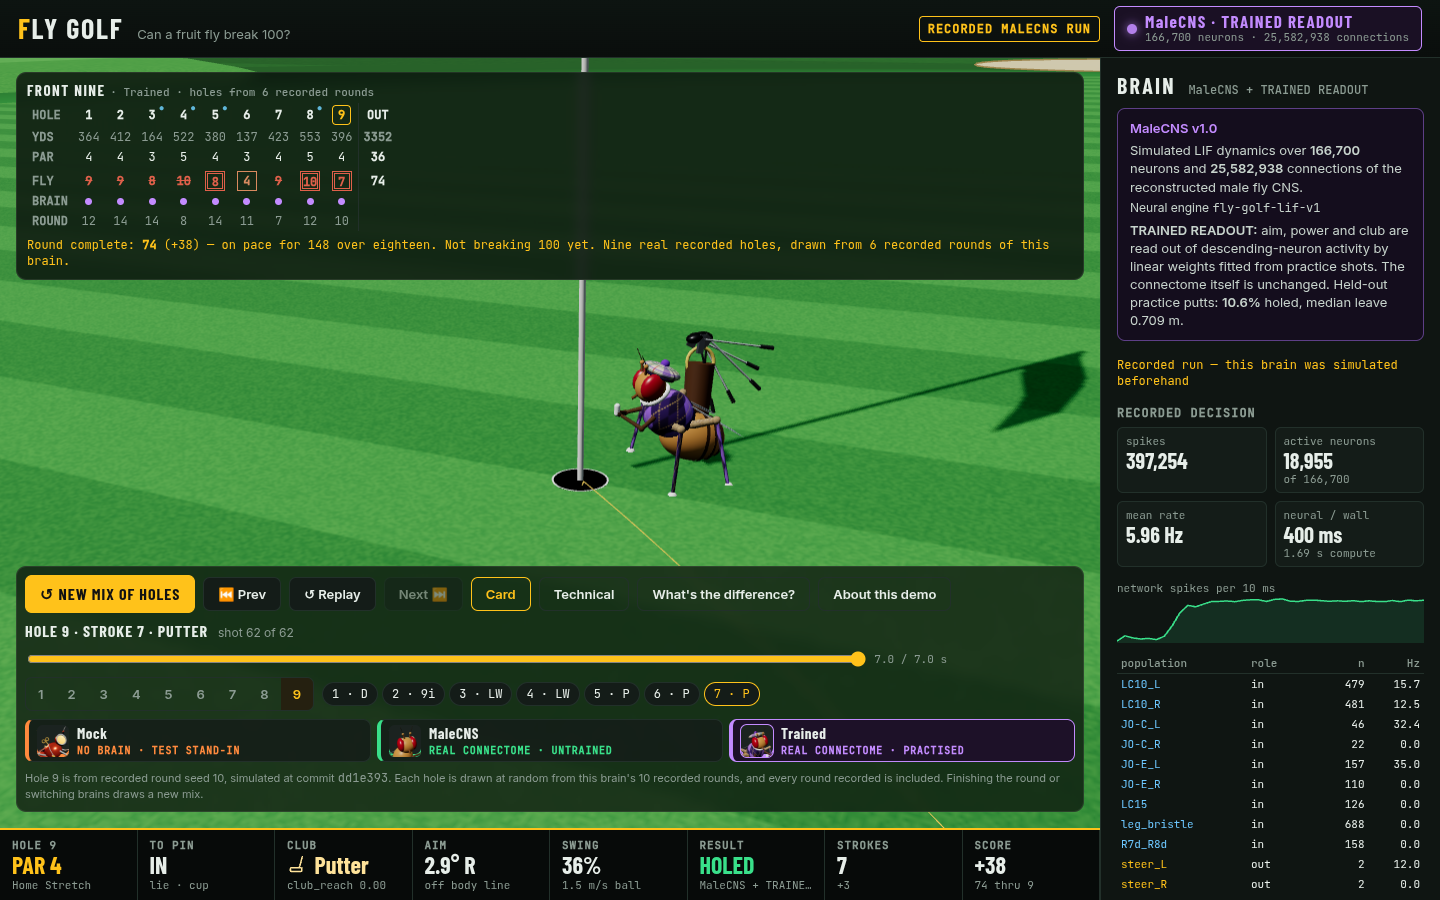
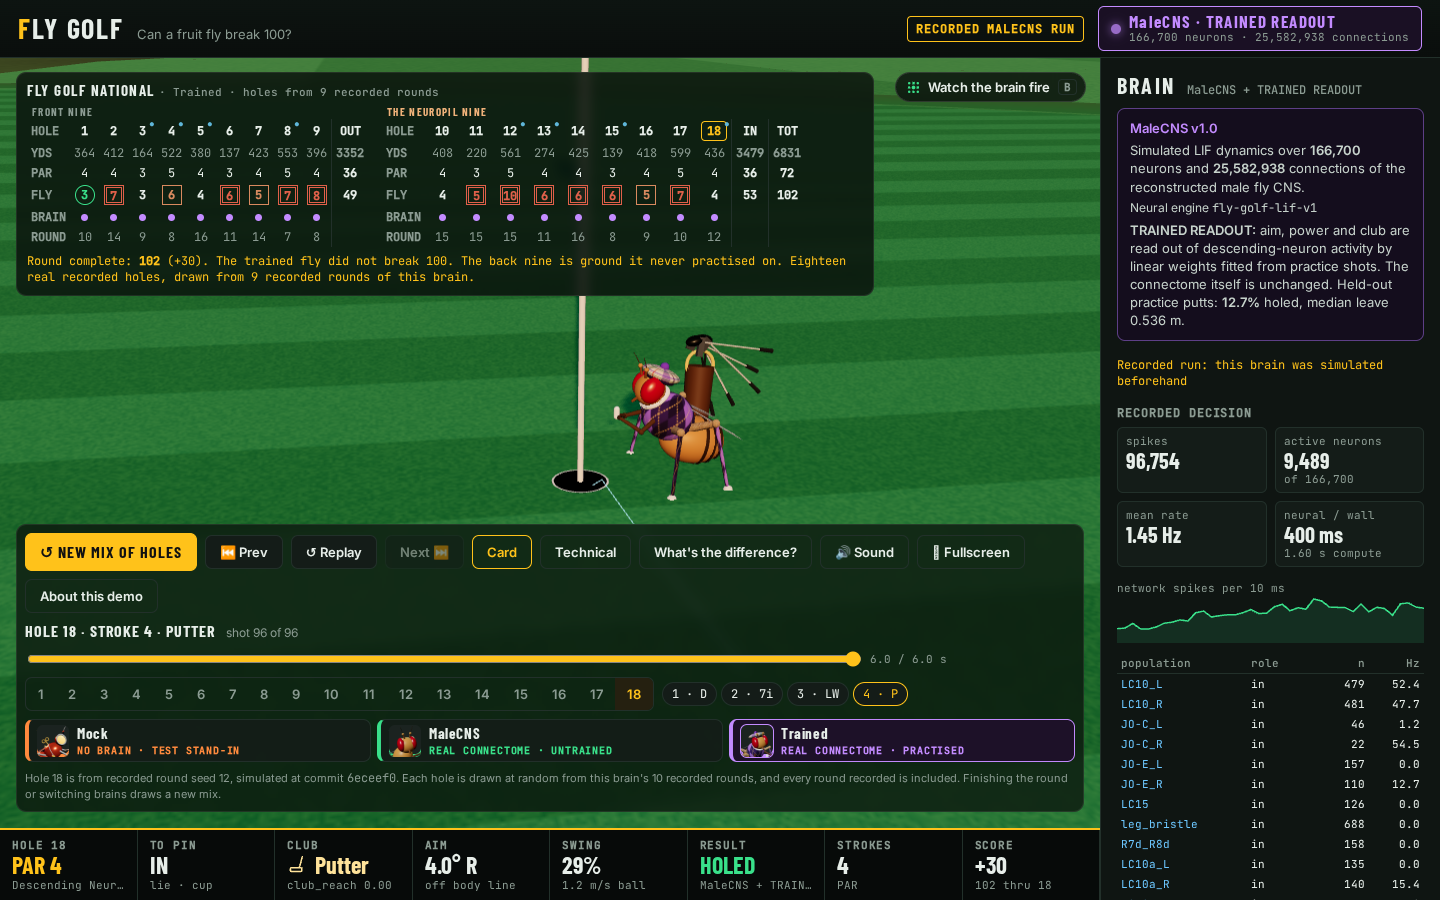
README: real 18-hole results, a new round-complete shot, trained stills
The headline answers the tagline honestly: on 18 real holes the trained
fly broke 100 in 13 of 46 rounds; the ten demo rounds average 99.6 (5
of 10 under 100) and 36 bench rounds average 102.6 (8 of 36). The old
98.6 was a front nine doubled. The back nine, never practised on, costs
about one to two strokes; that is transfer, not evidence the wiring
helps, and neither control has been run on the back nine.

The results table is 18-hole (out, in, total, holes of 180, rounds
under 100). The round-complete screenshot is re-shot from the committed
showcase: one random trained mix of 102 with the 18-hole card and the
new verdict. The back-nine stills now come from the recorded round
trained-eighteen-s07 (15 tee shot, 18 approach) instead of a mock
round. Deep links move to trained-eighteen-s07 with the same shot
numbers, and the README's remaining em dashes are gone.

diff --git a/README.md b/README.md
@@ -10,6 +10,13 @@ own club from a full bag, sets up every shot, records its neural telemetry, and 
 readout of descending-neuron activity to make its golf decisions. It practised only on the front
 nine; the back nine is held out, so every shot it plays there is on holes it has never seen.
 
+**So, can it break 100? Sometimes.** Over 18 real holes the trained fly broke 100 in 13 of its 46
+real rounds: the ten rounds in the web demo average 99.6 (5 of 10 under 100), and 36 benchmark
+rounds on fresh seeds average 102.6 (8 of 36 under 100). The back nine, which it never practised
+on, costs it about one to two strokes more than the front. None of this shows that the real wiring
+helps: on the front nine a randomly rewired connectome and a readout of the raw senses both play
+better, and neither control has been run on the back nine yet ([details](#the-web-demo)).
+
 **[▶ Watch the Web Demo](https://jameskbb.github.io/fly-golf/)** ·
 [▶ Watch the 25-second short](https://jameskbb.github.io/fly-golf/watch.html) ·
 [How It Works](#how-it-works) · [Run It Locally](#run-it-locally) ·
@@ -18,10 +25,10 @@ nine; the back nine is held out, so every shot it plays there is on holes it has
 [![Animated gameplay from Pond Hop: the trained fly addresses the ball, its readout picks the 7-iron, and the shot carries the pond and rolls up 4.7 feet from the flag, filmed with every panel hidden so the course fills the frame](docs/media/trained-pond-hop-gameplay.gif)](docs/media/trained-pond-hop-gameplay.mp4)
 
 *One real shot on Pond Hop, the 164-yard third: the tee shot of the web demo's featured round
-(seed 7), played by the current trained readout (`20260917T165536Z`). 400 ms of MaleCNS activity
-become a 7-iron that carries the pond and stops 4.7 ft (1.4 m) from the flag. It is the recorded
+(`trained-eighteen-s07`, seed 7), played by the current trained readout (`20260917T165536Z`).
+400 ms of MaleCNS activity become a 7-iron that carries the pond and stops 4.7 ft (1.4 m) from the flag. It is the recorded
 shot replayed by the web demo in cinema mode (press F there), so no panel covers the course;
-[watch it there](https://jameskbb.github.io/fly-golf/?run=trained-front-nine-s07&shot=14) or
+[watch it there](https://jameskbb.github.io/fly-golf/?run=trained-eighteen-s07&shot=14) or
 [open the 1280×720 MP4](docs/media/trained-pond-hop-gameplay.mp4).*
 
 > **What is real, and what is not**
@@ -46,12 +53,12 @@ shot replayed by the web demo in cinema mode (press F there), so no panel covers
   <img src="apps/web/public/media/fly-golf-short-02-poster.jpg" alt="The fly at address with its 7-iron, captioned 7-IRON" width="240" align="left" hspace="18" vspace="4">
 </a>
 
-**[▶ Watch it here](https://jameskbb.github.io/fly-golf/watch.html)** (25 s, sound on) — one hole,
+**[▶ Watch it here](https://jameskbb.github.io/fly-golf/watch.html)** (25 s, sound on): one hole,
 cut for a phone: the fly's readout picks a 7-iron, carries the pond to 4.7 feet, and then takes
 three putts, including a lip-out from 14 inches.
 
 Every frame is the web demo replaying the same recorded hole you can
-[open yourself](https://jameskbb.github.io/fly-golf/?run=trained-front-nine-s07&shot=14); the
+[open yourself](https://jameskbb.github.io/fly-golf/?run=trained-eighteen-s07&shot=14); the
 video adds captions, synthesized sound and speed changes, and nothing else. How it was cut, shot
 by shot, is in [social/short-02](social/short-02/README.md), together with the capture and render
 tools that rebuild it from the recorded run.
@@ -63,7 +70,7 @@ tools that rebuild it from the recorded run.
 [**jameskbb.github.io/fly-golf**](https://jameskbb.github.io/fly-golf/) is the same 3D app
 replaying **recorded MaleCNS rounds**. The neural simulation was computed beforehand; the replay
 runs entirely in your browser. There is no backend, and nothing is simulated or invented on the
-page. Pick a brain and watch nine holes one shot at a time: each hole is drawn at random from
+page. Pick a brain and watch 18 holes one shot at a time: each hole is drawn at random from
 that brain's recorded rounds, so every visit shows different play, and the scorecard says which
 round each hole came from. Pause, scrub through a swing, jump to any hole or stroke, orbit the
 camera, and read each shot's recorded spikes, active neurons, population rates, motor channels
@@ -78,27 +85,50 @@ neurons fired is not recorded, so none is shown firing alone, and Mock shots, wh
 brain, show nothing. To watch the brain play new shots as they are computed,
 [run it locally](#run-it-locally): the connectome download needs more than 1 GB of disk.
 
-Each brain recorded ten complete rounds, seeds 7–16, fixed before any round was played. Every
-one of them is in the demo; none was picked from several attempts:
+Each brain recorded ten complete 18-hole rounds, seeds 7–16 (the same seeds as the earlier
+front-nine demo), fixed before any round was played. Every one of them is in the demo; none was
+picked from several attempts:
 
-| Brain | Ten rounds (seeds 7–16) | Holes holed out | What happens |
-| --- | --- | --- | --- |
-| **Trained MaleCNS** (featured) | **49.3** strokes per nine on average (42–54) | 89 of 90 | Drivers off the tee and wedges around the greens, read out of descending-neuron activity by a readout fitted from practice |
-| **Untrained MaleCNS** | **81** in every round | 0 of 90 | The fixed readout rules hit a mid iron from everywhere and pick up every hole |
-| **Mock** | **36.5** (35–39) | 90 of 90 | The no-neuron reference. It reads the distance and lie directly, so it plays well |
+| Brain | Out (front nine) | In (back nine, never practised) | Total, ten rounds | Holes holed out | Rounds under 100 |
+| --- | --- | --- | --- | --- | --- |
+| **Trained MaleCNS** (featured) | 49.3 | 50.3 | **99.6** (93–115) | 176 of 180 | 5 of 10 |
+| **Untrained MaleCNS** | 81.0 | 81.0 | **162** in every round | 0 of 180 | 0 of 10 |
+| **Mock** (no neurons) | 36.5 | 37.1 | **73.6** (68–75) | 180 of 180 | 10 of 10 |
 
-[![The web demo at the end of a mixed trained round: the scorecard reads Round complete: 74 (+38), on pace for 148 over eighteen, not breaking 100 yet, with a ROUND row giving the recorded round each hole was drawn from (six of the trained brain's ten rounds), and the recorded neural telemetry in the brain panel](docs/screenshots/web-demo-round-complete.png)](https://jameskbb.github.io/fly-golf/)
+The trained fly takes drivers off the tee and wedges around the greens, read out of
+descending-neuron activity by a readout fitted from practice. The untrained fly's fixed rules hit
+a mid iron from everywhere and pick up every hole. The mock is not a fly and has no neurons: it
+reads the distance and lie directly, so it plays well, and it is the reference.
 
-*One random mix, captured as it came: every visit draws a new one. This shot of the demo was
-taken with the previous readout, so its scorecard reads 74; the rounds in the demo today are the
-ones in the table above.*
+[![The web demo at the end of a mixed trained round: the 18-hole scorecard shows the Front Nine out in 49 and The Neuropil Nine in 53, a total of 102, with a ROUND row naming the recorded round each hole was drawn from, and the verdict Round complete: 102 (+30). The trained fly did not break 100. The back nine is ground it never practised on. The brain panel shows the recorded neural telemetry of the last putt](docs/screenshots/web-demo-round-complete.png)](https://jameskbb.github.io/fly-golf/)
 
-On an 18-hole pace the trained fly averages 98.6 and the untrained fly 162. **The fly breaks
-100** — just, and only since the sensory injection was rebuilt so that it can actually perceive
-which way its target lies (see [SENSORY_MAPPING.md](docs/SENSORY_MAPPING.md#v03-one-quantity-per-population-malecns-sensory-v03));
-its best nine of the ten, 42, is an 84 pace. All thirty rounds were recorded from a clean tree whose
-contents are those of commit `04a148d` (the runs record its pre-publication sha `43f6d6b`; see
-[BUILD_LOG.md](docs/BUILD_LOG.md)), and every round re-simulates bit for bit (`fly-golf replay`).
+*One random mix of the trained fly's recorded holes, captured as it came (every visit draws a new
+one): its 18 holes come from 9 of the ten recorded rounds, as the ROUND row shows. This mix
+totals 102, out in 49 and home in 53, so the verdict under the card says it did not break 100.
+Other mixes can land on either side of 100.*
+
+**Does the fly break 100?** Sometimes, and on average not quite. The ten demo rounds average
+99.6: 5 of them are under 100 (93, 94, 94, 97, 98), one is exactly 100, which does not break 100,
+and the worst is 115. On 36 more rounds from fresh seeds (`fly-golf bench`, seeds 100–111,
+200–211 and 300–311) the trained fly averages 102.6 and breaks 100 in 8; its best is 88 and its
+worst 119. Together: 13 rounds under 100 out of 46. The "98.6" this README used to quote was a
+front-nine round doubled, not an 18-hole round. The fly only got this close after the sensory
+injection was rebuilt so that it can actually perceive which way its target lies (see
+[SENSORY_MAPPING.md](docs/SENSORY_MAPPING.md#v03-one-quantity-per-population-malecns-sensory-v03)).
+
+**The back nine, which it never practised on,** costs it about one to two strokes: in the demo
+rounds it goes out in 49.3 and comes home in 50.3, and in the three bench blocks the back nine
+averages 51.8, 50.6 and 53.8 against 50.3, 51.4 and 49.8 on the front. So what the readout learnt
+on the front nine transfers to unseen holes almost fully. That is a statement about the sensory
+injection plus the readout, **not evidence that the real MaleCNS wiring helps**: on the front nine
+a degree-preserving shuffled connectome trains a better readout than the real one, and a readout
+of the raw senses with no brain at all beats both. Neither control has been run on the back nine
+yet ([TRAINING.md](docs/TRAINING.md#the-back-nine-is-held-out-2026-09-27)).
+
+All thirty demo rounds were recorded from a clean tree at commit `6eceef0` (readout
+`20260917T165536Z`, course `eighteen-v1`), and every round re-simulates bit for bit
+(`fly-golf replay`). Holes 1-9 of each round are stroke for stroke the earlier front-nine round
+with the same seed.
 How the demo works and how to publish another run: [GITHUB_PAGES.md](docs/GITHUB_PAGES.md).
 
 ![Meet the three brains section header](docs/screenshots/readme-header-brains.png)
@@ -110,7 +140,7 @@ animated rig, but their bodies tell the scientific story: the wind-up toy has no
 fly uses the untrained connectome, and the dressed golfer uses that same connectome with a practised
 readout. The costumes are visual metaphors, not biological claims.
 
-### Mock — the wind-up
+### Mock: the wind-up
 
 ![Full 3D model of the Mock controller persona: a clockwork tin fruit fly holding a putter, with a winding key and lamp-like eyes](docs/screenshots/brain-mock-windup.png)
 
@@ -118,9 +148,9 @@ readout. The costumes are visual metaphors, not biological claims.
 caddie's distance table. It reads the distance, slope and lie directly, chooses a club and hits the
 shot. No neurons or connectome are simulated. The clockwork body makes that impossible to mistake:
 it does exactly what its rules wind it up to do. Mock exists to test the course, physics, animation
-and recording—and to provide a strong no-brain reference.
+and recording, and to provide a strong no-brain reference.
 
-### MaleCNS — the wild fly
+### MaleCNS: the wild fly
 
 ![Full 3D model of the MaleCNS controller persona: the plain fruit fly holding a putter for the untrained real-connectome controller](docs/screenshots/brain-malecns-wild-fly.png)
 
@@ -130,7 +160,7 @@ visual and gravity-sensing populations; fixed, a-priori rules read descending-ne
 club, aim, power, tempo and contact. The wild fly has never had a lesson, and it plays like it: the
 current readout tends to reach for the same mid iron and does not finish holes.
 
-### Trained — the trained golfer
+### Trained: the trained golfer
 
 ![Full 3D model of the trained golfer persona holding a putter in a tartan tam, argyle vest, plus-fours and golf glove](docs/screenshots/brain-trained-club-member.png)
 
@@ -138,8 +168,8 @@ current readout tends to reach for the same mid iron and does not finish holes.
 sensory input as the wild fly. Nothing inside the connectome learns. Offline practice fits linear
 weights that turn roughly 480 descending-neuron-type firing rates into a putt-or-swing decision,
 club, aim and power; the tam, argyle, plus-fours and glove make that external practice visible. It
-now finishes many holes, but the honest control result is that a readout of the raw senses—and a
-degree-preserving shuffled connectome—still plays better. The full method and results are in
+now finishes almost every hole and sometimes breaks 100 over 18, but the honest control result is that a readout of the raw senses, and a
+degree-preserving shuffled connectome, still play better. The full method and results are in
 [TRAINING.md](docs/TRAINING.md).
 
 You can switch brains at any time, even mid-hole. The next shot uses the new controller, every shot
@@ -241,27 +271,32 @@ hole after a neuropil is decoration (that neuropil does not play it). Every fact
 
 **The trained fly has never practised a single shot here.** Its readout was fitted on front-nine
 situations only, so every back-nine score is a test of how what it learnt transfers to holes it has
-never seen. `fly-golf bench` reports front- and back-nine splits for that reason. As a check that
-every hole is fair to a player that aims where the environment points, the mock controller (a
+never seen. `fly-golf bench` reports front- and back-nine splits for that reason. So far it
+plays them only a little worse than the front: in the ten demo rounds it comes home in 50.3 on
+average against 49.3 out, and in 36 bench rounds the back nine averages 52.1 against 50.5 (see
+[the results](#the-web-demo); this says the readout transfers, not that the real wiring helps). As
+a check that every hole is fair to a player that aims where the environment points, the mock controller (a
 hand-written heuristic with no neurons, not the fly) holes out every back-nine hole over 22 rounds
 and averages within 0.6 strokes of par on each of them.
 
 <table>
 <tr>
 <td width="50%">
-<img src="docs/screenshots/back-nine-mock-island-green.webp" alt="Dusk on hole 15, Ellipsoid Body: a tee shot's white trace falls toward the island green inside its ring of water, with autumn trees behind"><br>
-<em>15 · Ellipsoid Body: an 8-iron dropping toward the island green.</em>
+<img src="docs/screenshots/back-nine-trained-s07-h15-tee-shot.webp" alt="Dusk on hole 15, Ellipsoid Body: the trained fly's tee shot, a white trace high over the island green in its ring of water, heading past it"><br>
+<em>15 · Ellipsoid Body, stroke 1: a 6-iron from 139 yd carries 170 yd, over the island and into the water behind it.</em>
 </td>
 <td width="50%">
-<img src="docs/screenshots/back-nine-mock-cape-tee-shot.webp" alt="Dusk on hole 18, Descending Neurons: the view down the fairway as the tee shot flies, the clubhouse lake cutting in from the left"><br>
-<em>18 · Descending Neurons: the tee shot flies past the clubhouse lake.</em>
+<img src="docs/screenshots/back-nine-trained-s07-h18-approach.webp" alt="Dusk on hole 18, Descending Neurons: the trained fly in its tam and argyle vest strikes a 6-iron from the fairway, the aim line running ahead of the ball"><br>
+<em>18 · Descending Neurons, stroke 3: a 6-iron from 166 yd finishes on the green, 50 ft from the pin.</em>
 </td>
 </tr>
 </table>
 
-*Both stills are from a recorded **mock** round (round seed 7), replayed by the web app in cinema
-mode: the wind-up tin fly, a hand-written heuristic with no neurons, not the connectome. Its 8-iron
-on 15 finishes on the fringe; its 3-wood on 18 finishes in the rough.*
+*Both stills are the trained fly's recorded round `trained-eighteen-s07` (the web demo's featured
+round, seed 7), replayed by the web app in cinema mode: shots 84 and 108 of 111. On 15 that splash
+costs a penalty stroke and a drop on the island, 32 yd from the pin; the next shot, a lob wedge,
+finds the water too, and the hole takes 8 strokes. 18 takes 6. That round is the worst of the ten, 115 (54 out, 61 in).
+[Open the island-green shot](https://jameskbb.github.io/fly-golf/?run=trained-eighteen-s07&shot=84).*
 
 <details>
 <summary><strong>Open the full back-nine yardage book</strong> · bird's-eye renders and strategy for holes 10 to 18</summary>
@@ -356,7 +391,7 @@ the drive carries, the shorter the way in. Water waits short-left of the green t
 | **18-hole rounds**: `fly-golf round` plays all 18 by default (or `--first`/`--last`), the app's scorecard shows OUT, IN and TOT | ✅ |
 | **Full bag**: driver, 3W, 5W, 4H, 5–9 irons, PW/GW/SW/LW, putter. The fly chooses via the `club_reach` motor channel | ✅ |
 | Full-shot physics: drag + Magnus flight, spin, surface bounce and roll, penalties, lies | ✅ tested, replayable |
-| **Trained readout v2** of MaleCNS descending-neuron activity (putter gate, club head, aim/power heads, calibrated by practice), with no-brain and shuffled controls. Refitted onto the v0.3 sensory injection: 50.5 strokes per nine over 36 fresh rounds (was 66.5), 97 % of holes holed ([TRAINING.md](docs/TRAINING.md#sensory-injection-v03-2026-09-17)) | ✅ experimental |
+| **Trained readout v2** of MaleCNS descending-neuron activity (putter gate, club head, aim/power heads, calibrated by practice), with no-brain and shuffled controls. Refitted onto the v0.3 sensory injection: 50.5 strokes per front nine over 36 fresh rounds (was 66.5). On 18 holes: 102.6 over 36 bench rounds (8 under 100) and 99.6 over the ten demo rounds (5 under 100); the back nine, never practised on, costs about one to two strokes ([TRAINING.md](docs/TRAINING.md#18-hole-results-2026-09-27)) | ✅ experimental |
 | **Switch brains mid-round** (Mock / MaleCNS / Trained); scorecard marks who played each hole, mixed rounds flagged | ✅ |
 | **Web demo**: Showcase Mode replays recorded MaleCNS rounds on GitHub Pages, no backend ([GITHUB_PAGES.md](docs/GITHUB_PAGES.md)) | ✅ |
 | `fly-golf bench`: complete 18-hole rounds per brain with front- and back-nine splits (holes finished, strokes, trees, club by distance); `--nine front` reproduces the earlier front-nine bench | ✅ |
@@ -368,7 +403,7 @@ the drive carries, the shorter the way in. Water waits short-left of the green t
 | Live WebSocket telemetry, brain panel, technical panel, run history, deterministic replay | ✅ |
 | **A body per brain**: Mock plays as a clockwork tin fly (no neurons inside), MaleCNS as the plain fly, Trained as the same fly in golf clothes | ✅ |
 | Experiment records (JSONL) with git commit, seeds, versions, neural summary and trajectory | ✅ |
-| **Does the connectome play well?** | ❌ Not yet. The untrained readout hits a mid iron from everywhere and never finishes a hole. The v2 **trained readout** picks wedges around the green, putts every green shot and finishes a large share of holes, but a readout of the raw senses plays far better, and **a degree-preserving shuffled connectome trains better than the real one**. See [TRAINING.md](docs/TRAINING.md#results) |
+| **Does the connectome play well?** | ❌ Not yet. The untrained readout hits a mid iron from everywhere and never finishes a hole. The v2 **trained readout** picks wedges around the green, putts every green shot, finishes 95 to 98 % of its holes and breaks 100 over 18 holes in a minority of rounds (13 of 46), but on the front nine a readout of the raw senses plays far better, and **a degree-preserving shuffled connectome trains better than the real one**. Neither control has been run on the back nine. See [TRAINING.md](docs/TRAINING.md#results) |
 
 ## Run it locally
 
@@ -443,7 +478,7 @@ infrastructure** (grey).
 flowchart LR
   G[GolfEnvironment<br/>deterministic physics] -->|Observation| S[SensoryEncoder<br/>proxy-v0.2]
   S -->|SensoryFrame<br/>14 bounded channels| B{BrainController}
-  B --> M[MockBrainController<br/>MOCK — no neurons]
+  B --> M[MockBrainController<br/>MOCK: no neurons]
   B --> C[MaleCNSController]
   C --> E[LIF engine<br/>simulated dynamics]
   W1[(MaleCNS v1.0 wiring<br/>166,700 neurons · 25.6M connections)] --> E
@@ -611,7 +646,8 @@ club selection, full swings, hazards, the trained readout with its controls, and
 back nine is a transfer test, not a practice ground: the trained fly plays it without ever having
 practised there. Next:
 
-1. **Controls:** lesion experiments, and more rounds per brain on shared seeds.
+1. **Controls:** the shuffled-wiring and no-brain controls on the back nine and over complete
+   rounds, lesion experiments, and more rounds per brain on shared seeds.
 2. **Showcase comparisons:** first putt, before and after training, the shuffled-connectome
    control, and the best round, side by side on the web demo.
 3. **Vision:** render the course through modelled fly eyes and drive the photoreceptors (see
